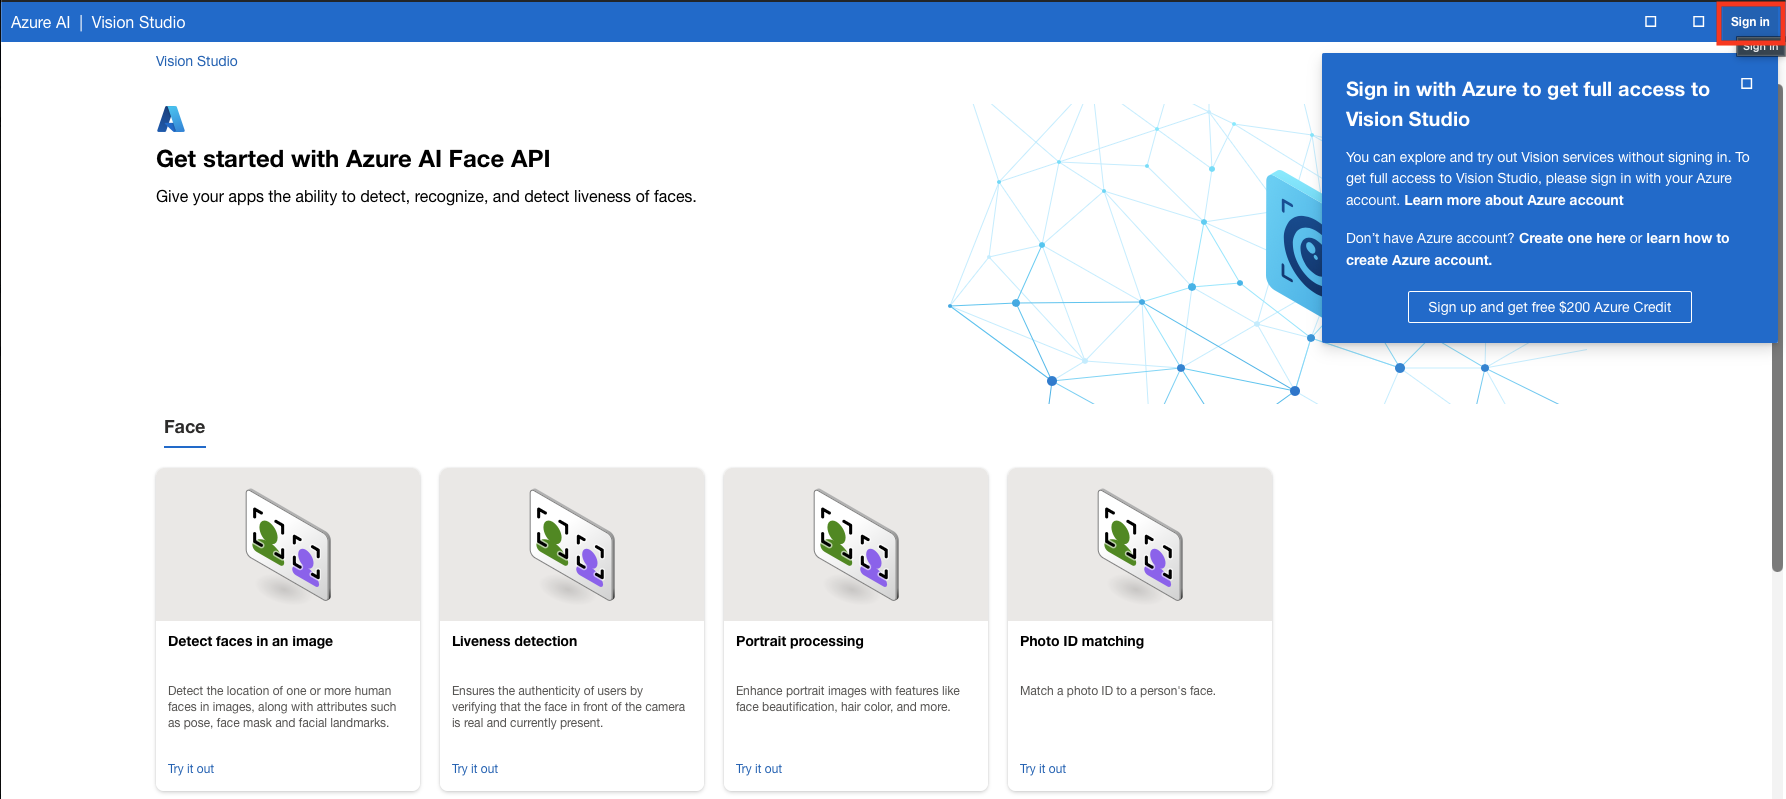
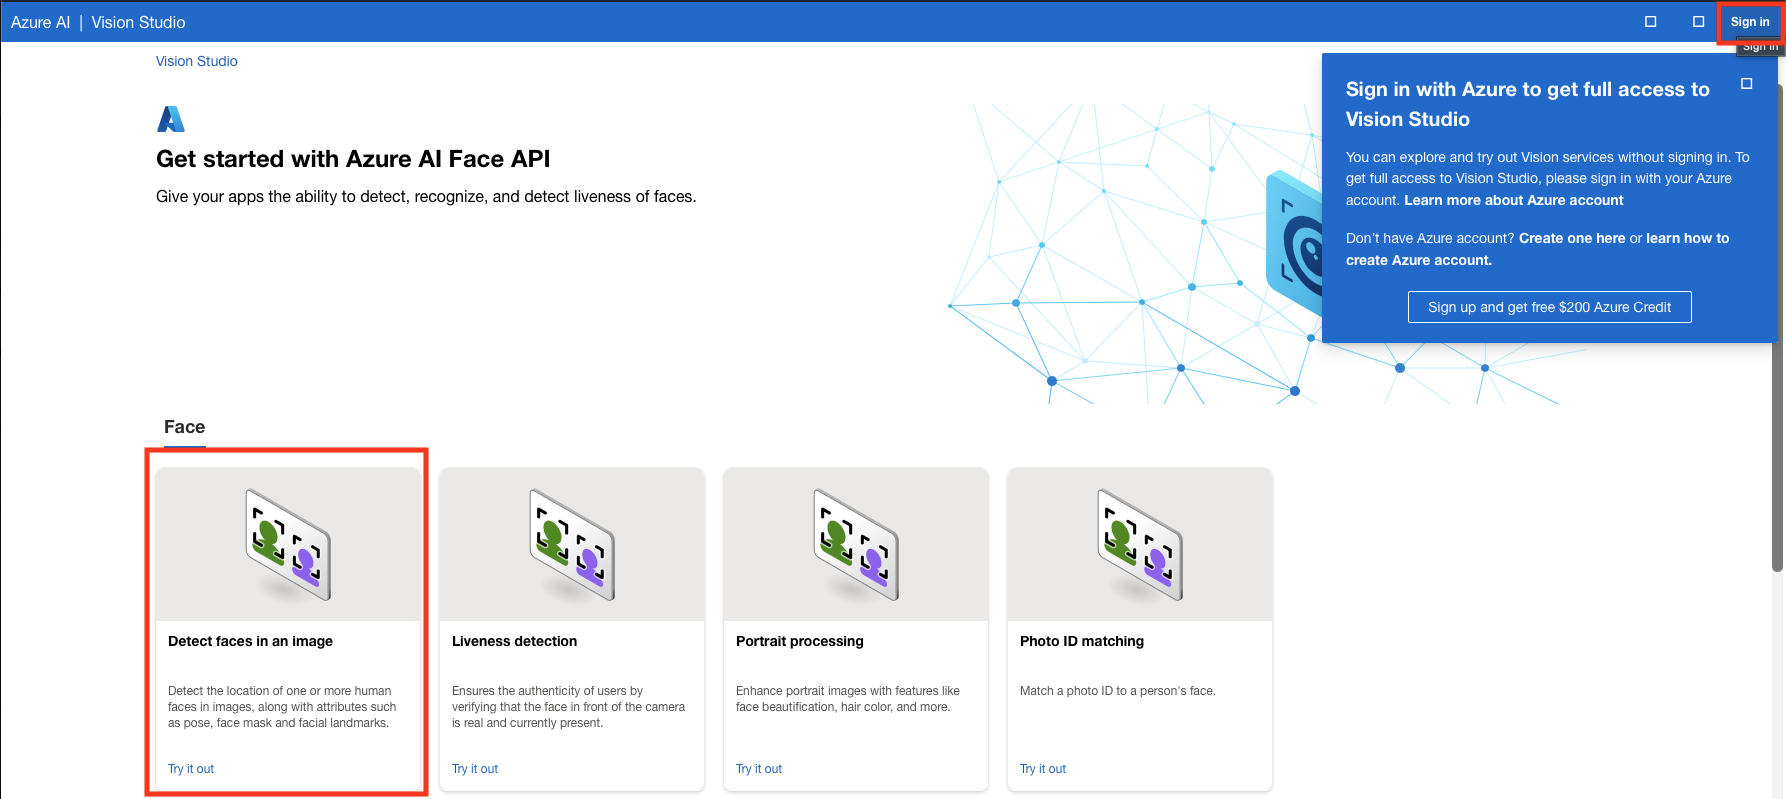
Finish Chapter 2 lab

Changed region(s): [[0.0616, 0.5407, 0.2464, 1.0]]

diff --git a/Labs/chapter-2-vision-studio.md b/Labs/chapter-2-vision-studio.md
@@ -1,7 +1,7 @@
 # Chapter 2 Azure AI Vision Studio
 
 This lab in the book was supposed to guide the user to caption a file in Azure AI Vision Studio.
-However, there is no capationing and the Vision Studio is not loading for me on 30 Nov 2025.
+However, there is no capationing and the Vision Studio is not loading for me for facial detection on 30 Nov 2025.
 I will still go over how to do it in Azure.
 
 # Steps
@@ -14,29 +14,37 @@ I will still go over how to do it in Azure.
 
 3. Click **Computer Vision** and then click **Create**
 
-![](/assets/labs/chapter2/vision-studios2.png)
+![Find Computer Vision in Azure Porta;](/assets/labs/chapter2/vision-studios2.png)
 
 4. **Fill out** the form to create a Computer Vision resource.
 
-![](/assets/labs/chapter2/vision-studios3.png)
+![Fill out project details](/assets/labs/chapter2/vision-studios3.png)
 
 5. Scroll down and **click the box to agree** to the Responisble AI statement. Click **Review + create**.
 
-![](/assets/labs/chapter2/vision-studios4.png)
+![Agree to statment and Review and Create Resource](/assets/labs/chapter2/vision-studios4.png)
 
 6. On the Review + Create page, verify for details and click **create**.
 
-![](/assets/labs/chapter2/vision-studios5.png)
+![Create vision studio resource](/assets/labs/chapter2/vision-studios5.png)
 
 7. After Azure ARM creates Computer Vision, click **Go to Resource**
 
-![](/assets/labs/chapter2/vision-studios6.png)
+![ARM creates Computer Vision](/assets/labs/chapter2/vision-studios6.png)
 
 8. In the resorce group page, click the **Computer Vision** resource to open it.
 
-![](/assets/labs/chapter2/vision-studios7.png)
+![Select the Resource in the Resource Group](/assets/labs/chapter2/vision-studios7.png)
 
 9. In Compuer Vision, click **Go to Visison Studios**
 
-![](/assets/labs/chapter2/vision-studios8.png)
+![Enter Vision Studios](/assets/labs/chapter2/vision-studios8.png)
+
+10. Choose the first face tool, **Detect faces in an image** or another tool.
+
+![](/assets/labs/chapter2/vision-studios9.png)
+
+11. Upload or use the sample images by dragging them to the drag-and-drop box.
+
+![Upload image to Vision Studio](/assets/labs/chapter2/vision-studios10.png)
 
